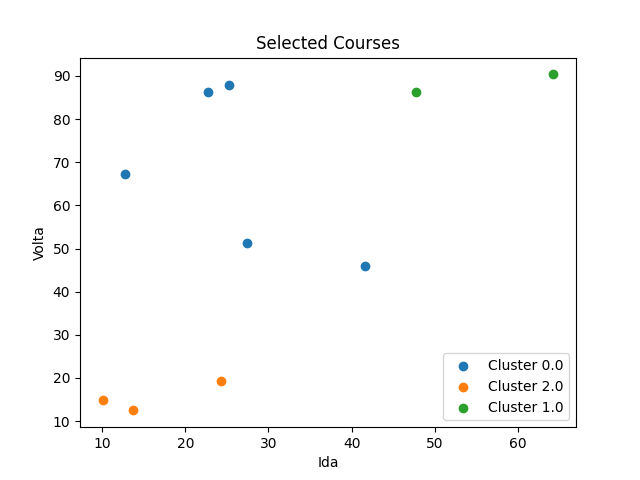
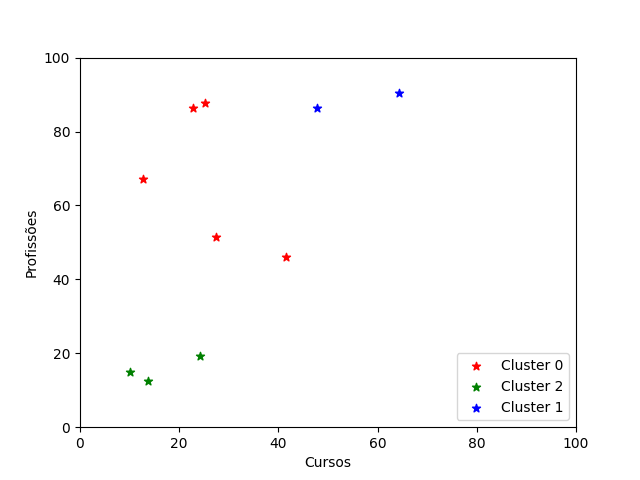
Fase 20 - QP2 (Questao de Pesquisa 2) - Gráficos

diff --git a/ibge_functions_exploratory_analysis.py b/ibge_functions_exploratory_analysis.py
@@ -919,6 +919,7 @@ def Salarios(path1,name1,path2,name2):
     import pandas as pd
     import numpy as np
     from sklearn.cluster import KMeans
+    import pandas as pd
 
     ##### ---------------------------------- Gerar o arquivo de empregabilidade
     # # Carregar o arquivo CSV
@@ -1046,3 +1047,108 @@ def plot_selected_courses():
     save_results_to = 'graficos/'  
     plt.savefig(save_results_to + string1)  
     return  
+
+
+
+def plot_selected_courses_1(path1,name1,path2,name2):
+    import pandas as pd
+    import numpy as np
+    import matplotlib.pyplot as plt
+    from sklearn.cluster import KMeans
+    import pandas as pd
+    import numpy as np
+    from sklearn.cluster import KMeans
+    import pandas as pd
+
+    ##### ---------------------------------- Gerar o arquivo de empregabilidade
+    # # Carregar o arquivo CSV
+    # file_path = "graficos/Kmeans3_T.csv"  # Substitua pelo caminho do arquivo
+    # data = pd.read_csv(file_path)
+    # save_results_to = 'graficos/' 
+    
+    # # Filtrar as linhas com CR: 214, 342, 520, 721, 726
+    # cr_values = [214, 342, 520, 721, 726]
+    # filtered_data = data[data['Curso'].isin(cr_values)]
+       
+    # # Salvar o novo arquivo
+    # filtered_file_path = save_results_to + 'Kmeans3_T.csv_Empregabilidade.csv'
+    # filtered_data.to_csv(filtered_file_path, index=False)
+    
+    ##### -------------------------------- Usar um arquivo de teste para empregabilidade
+    # Carregar o arquivo CSV
+    # file_path = "graficos/Kmeans3_T_Empregabilidade.csv"  # Substitua pelo caminho do arquivo
+    file_path = "graficos/Kmeans3_T_Salarios_certo.csv"  # Substitua pelo caminho do arquivo
+    data = pd.read_csv(file_path)
+    save_results_to = 'graficos/' 
+    
+    # Filtrar as linhas com CR: 214, 342, 520, 721, 726
+    cr_values = [214, 342, 520, 721, 726]
+    filtered_data = data[data['Curso'].isin(cr_values)]
+
+    ##### -------------------------------- Gráfico separado por cursos 
+    # Configurar o gráfico de dispersão usando as colunas 'Ida', 'Volta' e 'Cluster'
+    plt.figure(figsize=(6, 4))    
+
+    # # Lista de cores para os clusters
+    cores_personalizadas = ['red', 'blue', 'green', 'black', 'pink']  # Adicione mais cores, se necessário
+
+    # # Ordenar os clusters antes de criar o gráfico
+    clusters_ordenados = sorted(filtered_data['Curso'].unique())
+
+
+    # # Criar o scatter plot para os clusters com cores personalizadas
+    for i, cluster in enumerate(clusters_ordenados):
+          cluster_data = filtered_data[data['Curso'] == cluster]
+          plt.scatter(
+              cluster_data['Ida'], 
+              cluster_data['Volta'], 
+              label=f'Curso {int(cluster)}', 
+              marker='.',  # Define o marcador como estrela
+              color=cores_personalizadas[i % len(cores_personalizadas)],  # Escolhe a cor da lista
+             #  s=100  # Define o tamanho dos marcadores
+             #  s=cluster_data['Empregabilidade'] * 20,  # Define o tamanho dos pontos com base na empregabilidade (ajuste o fator de multiplicação conforme necessário)
+             #  s=cluster_data['Median'] * 20,  # Define o tamanho dos pontos com base na empregabilidade (ajuste o fator de multiplicação conforme necessário)
+              s=100 
+          )     
+
+    # ##### -------------------------------- Gráfico separado por Clusters
+    # # Configurar o gráfico de dispersão usando as colunas 'Ida', 'Volta' e 'Cluster'
+    # plt.figure(figsize=(6, 4))    
+
+    # # Lista de cores para os clusters
+    # cores_personalizadas = ['red', 'blue', 'green', 'black', 'pink']  # Adicione mais cores, se necessário
+
+    # # Ordenar os clusters antes de criar o gráfico
+    # clusters_ordenados = sorted(filtered_data['Cluster'].unique())
+
+
+    # # Criar o scatter plot para os clusters com cores personalizadas
+    # for i, cluster in enumerate(clusters_ordenados):
+    #      cluster_data = filtered_data[data['Cluster'] == cluster]
+    #      plt.scatter(
+    #          cluster_data['Ida'], 
+    #          cluster_data['Volta'], 
+    #          label=f'Cluster {int(cluster)}', 
+    #          marker='.',  # Define o marcador como estrela
+    #          color=cores_personalizadas[i % len(cores_personalizadas)],  # Escolhe a cor da lista
+    #         #  s=100  # Define o tamanho dos marcadores
+    #         s=cluster_data['Empregabilidade'] * 20,  # Define o tamanho dos pontos com base na empregabilidade (ajuste o fator de multiplicação conforme necessário)
+    #      )   
+
+    # Personalizar o gráfico
+    # plt.title('Salarios')
+    plt.xlabel('Cursos')
+    plt.ylabel('Profissões')
+    plt.ylim(0, 100) # definir limite do eixo
+    plt.xlim(0, 100) # definir limite do eixo
+    plt.legend(title="Cursos", loc='lower right')
+    plt.grid()
+
+    # Mostrar o gráfico
+    # plt.show()
+    # string1 = "Cursos e Profissões que mudam de Clusters" +".png"
+    string1 = "Cursos e Profissões que mudam de Clusters" +".png"
+    save_results_to = 'graficos/'  
+    plt.savefig(save_results_to + string1)  
+
+    return

diff --git a/analise_ibge.py b/analise_ibge.py
@@ -102,16 +102,17 @@ if fase == 20:  #QP1
     # - geração do gráfico K-Means com K=3 (10% - Todos os Cursos - Clusterização) 
     # - geração do arquivo Kmeans3_T.csv   
     ################## ------------------------ 
-    ibge_functions.Profissoes_Cursos()    
+    # ibge_functions.Profissoes_Cursos()    
     # ## Empregabilidade x Salario
-    ibge_functions.median_salario()  
-    ibge_functions.Salarios() 
+    # ibge_functions.median_salario()  
+    # ibge_functions.Salarios() 
 
-    ibge_functions.Soma_PivotTable()
-    ibge_functions.Coluna_Empregabilidade()
-    ibge_functions.Empregabilidade() 
+    # ibge_functions.Soma_PivotTable()
+    # ibge_functions.Coluna_Empregabilidade()
+    # ibge_functions.Empregabilidade() 
 
-    ibge_functions_exploratory_analysis.plot_selected_courses()
+    # ibge_functions_exploratory_analysis.plot_selected_courses()
+    ibge_functions.plot_selected_courses_1()
     pass
 
 # Fase 30: Resultados da Análise ...

diff --git a/ibge_functions.py b/ibge_functions.py
@@ -264,6 +264,14 @@ def Salarios():
     ibge_functions_exploratory_analysis.Salarios(path1,name1,path2,name2)    
     return
 
+def plot_selected_courses_1():
+    path1 = ibge_variable.paths(12)
+    name1 = ibge_variable.names(6)
+    path2 = ibge_variable.paths(13)
+    name2 = ibge_variable.names(9)
+    ibge_functions_exploratory_analysis.plot_selected_courses_1(path1,name1,path2,name2)    
+    return
+
 def Empregabilidade():
     path1 = ibge_variable.paths(12)
     name1 = ibge_variable.names(6)
